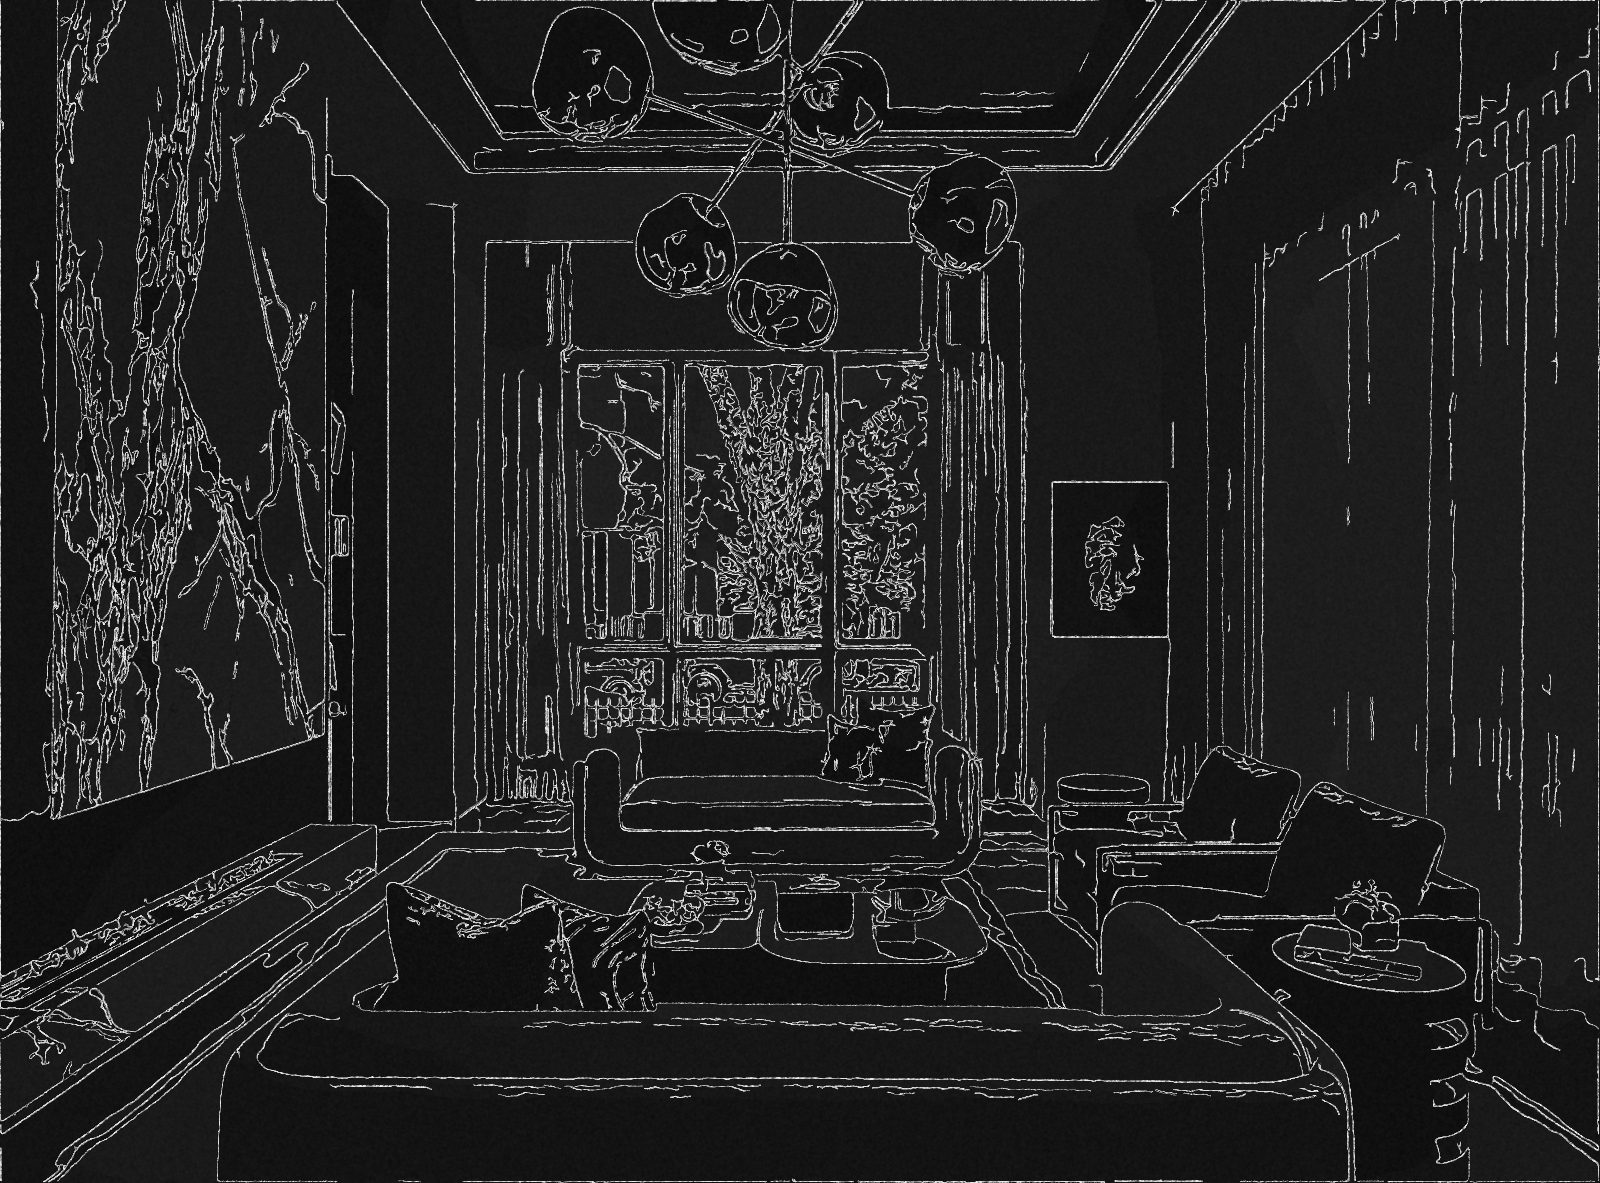
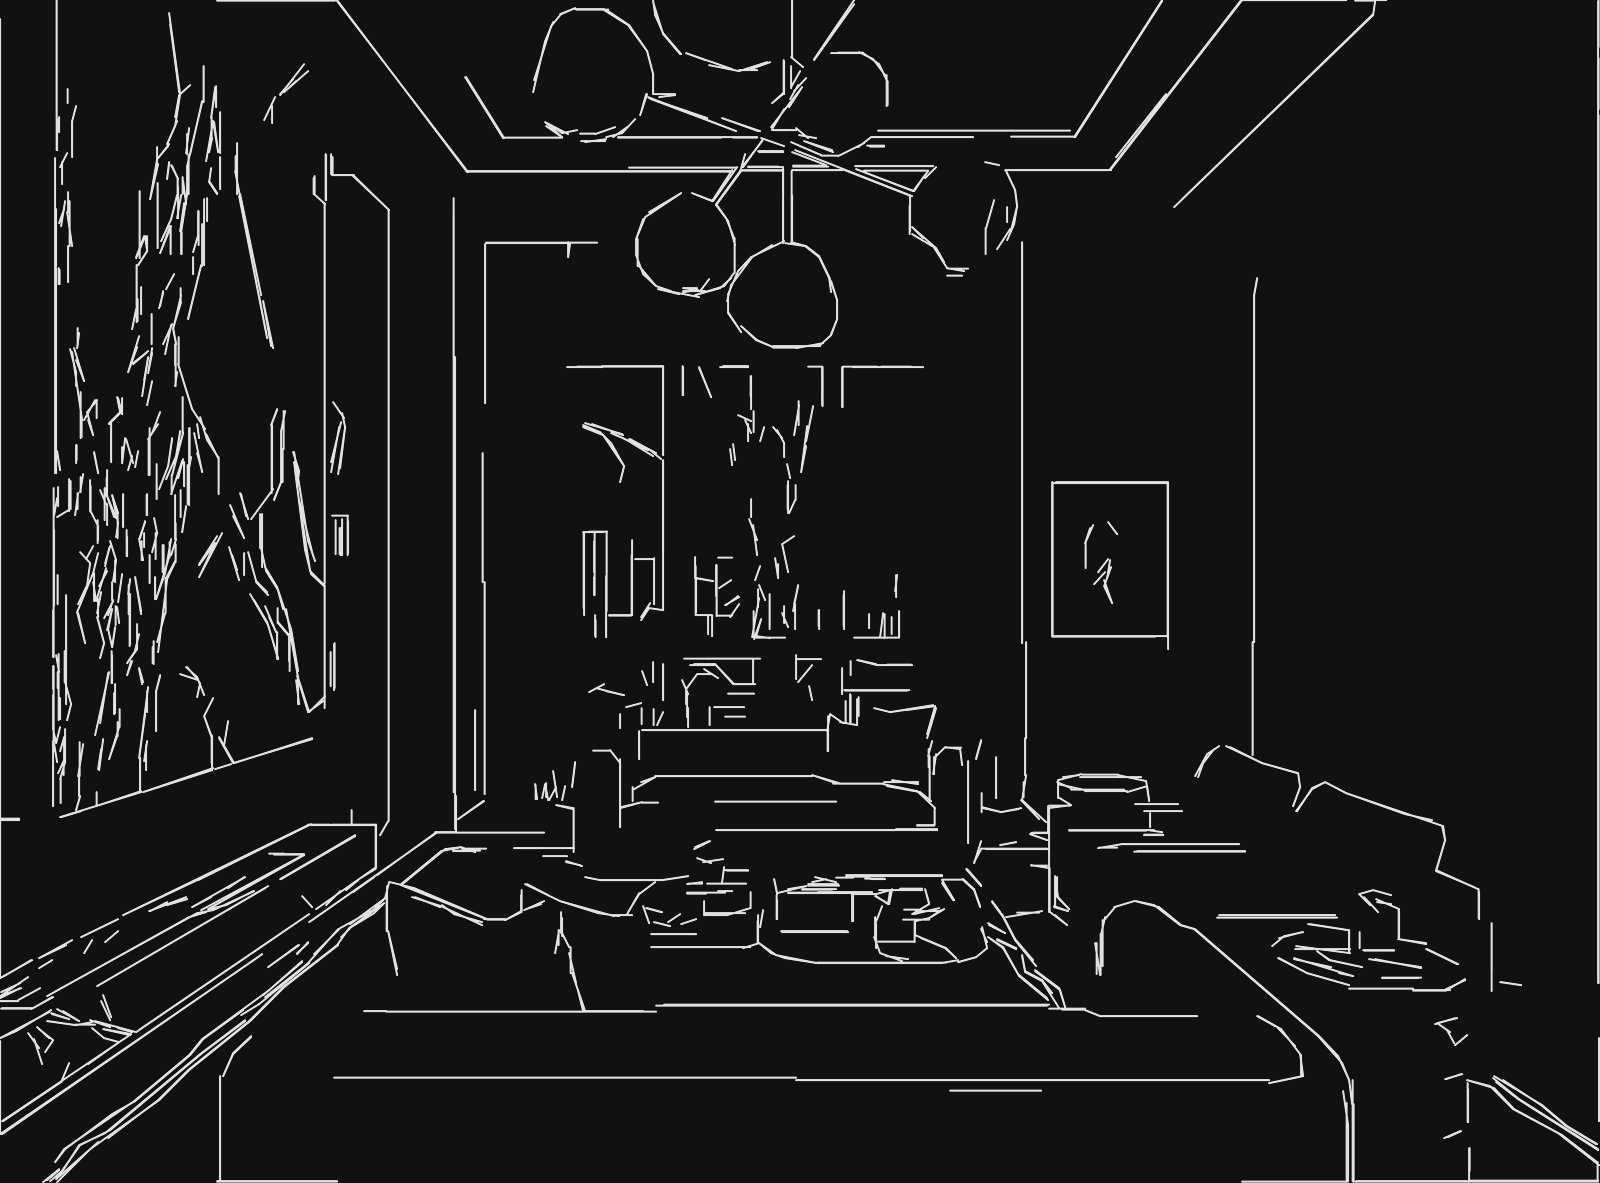
Story sketch v4 (user 03.11 08:40): straight, neat, uniform lines like the gold window outline, few details, no pencil — the facade is the outer rectangle of every window (panes merged, from the measured window map) + the facade's own edges; the city is a clean stepped skyline with tower edges fadin
Claude-Session: https://claude.ai/code/session_0117HZEeKusXN3UNmPD9FEqi

diff --git a/design/js/pre3d.js b/design/js/pre3d.js
@@ -71,10 +71,10 @@ const SKGL = `
   float skH(vec2 p){ return fract(sin(dot(p, vec2(127.1, 311.7))) * 43758.5453); }
   float skN(vec2 p){ vec2 i = floor(p), f = fract(p); f = f * f * (3. - 2. * f);
     return mix(mix(skH(i), skH(i + vec2(1., 0.)), f.x), mix(skH(i + vec2(0., 1.)), skH(i + 1.), f.x), f.y); }
-  float skR(vec2 uv, float k){ float n = (1. - uv.y) * .82 + .18 * skN(uv * vec2(9., 14.)); return smoothstep(n - .05, n + .05, k * 1.12 - .06); }   /* a clean sweep from the top, pencil-ragged front */
+  float skR(vec2 uv, float k){ float n = 1. - uv.y; return smoothstep(n - .04, n + .04, k * 1.1 - .05); }   /* a clean, straight sweep from the top */
   vec3 skMix(vec3 col, vec3 sk, vec2 uv, float k){ if (k <= 0.) return col; float r = skR(uv, k);
     float edge = r * (1. - r) * 4.;                                   /* a thin bright front where the drawing arrives */
-    return mix(col, sk, r) + vec3(.9, .87, .82) * edge * .1 * (1. - k); }`;
+    return mix(col, sk, r) + vec3(.9, .87, .82) * edge * .05 * (1. - k); }`;
 
 function skyMat(tex){
   return new THREE.ShaderMaterial({
@@ -93,7 +93,7 @@ function skyMat(tex){
         float sp = pow(max(0., sin(uTime * (.7 + 1.5 * h(cell + 7.)) + h(cell) * 40.)), 26.) * step(.62, h(cell + 1.7));   /* glints */
         c.rgb *= mix(1., tw, m) * uLift;
         c.rgb += c.rgb * m * (.62 + 2.2 * sp);                     /* lights feed the bloom, some sparkle */
-        if (uSk > 0.) c.rgb = skMix(c.rgb, texture2D(skMap, vUv).rgb + vec3(.82, .8, .76) * pow(l, 2.2) * .22, vUv, uSk);   /* + the city lights as faint pencil dots */
+        if (uSk > 0.) c.rgb = skMix(c.rgb, texture2D(skMap, vUv).rgb, vUv, uSk);
         gl_FragColor = c;
         #include <colorspace_fragment>
       }`,

diff --git a/design/src/v15/pre3d.js b/design/src/v15/pre3d.js
@@ -71,10 +71,10 @@ const SKGL = `
   float skH(vec2 p){ return fract(sin(dot(p, vec2(127.1, 311.7))) * 43758.5453); }
   float skN(vec2 p){ vec2 i = floor(p), f = fract(p); f = f * f * (3. - 2. * f);
     return mix(mix(skH(i), skH(i + vec2(1., 0.)), f.x), mix(skH(i + vec2(0., 1.)), skH(i + 1.), f.x), f.y); }
-  float skR(vec2 uv, float k){ float n = (1. - uv.y) * .82 + .18 * skN(uv * vec2(9., 14.)); return smoothstep(n - .05, n + .05, k * 1.12 - .06); }   /* a clean sweep from the top, pencil-ragged front */
+  float skR(vec2 uv, float k){ float n = 1. - uv.y; return smoothstep(n - .04, n + .04, k * 1.1 - .05); }   /* a clean, straight sweep from the top */
   vec3 skMix(vec3 col, vec3 sk, vec2 uv, float k){ if (k <= 0.) return col; float r = skR(uv, k);
     float edge = r * (1. - r) * 4.;                                   /* a thin bright front where the drawing arrives */
-    return mix(col, sk, r) + vec3(.9, .87, .82) * edge * .1 * (1. - k); }`;
+    return mix(col, sk, r) + vec3(.9, .87, .82) * edge * .05 * (1. - k); }`;
 
 function skyMat(tex){
   return new THREE.ShaderMaterial({
@@ -93,7 +93,7 @@ function skyMat(tex){
         float sp = pow(max(0., sin(uTime * (.7 + 1.5 * h(cell + 7.)) + h(cell) * 40.)), 26.) * step(.62, h(cell + 1.7));   /* glints */
         c.rgb *= mix(1., tw, m) * uLift;
         c.rgb += c.rgb * m * (.62 + 2.2 * sp);                     /* lights feed the bloom, some sparkle */
-        if (uSk > 0.) c.rgb = skMix(c.rgb, texture2D(skMap, vUv).rgb + vec3(.82, .8, .76) * pow(l, 2.2) * .22, vUv, uSk);   /* + the city lights as faint pencil dots */
+        if (uSk > 0.) c.rgb = skMix(c.rgb, texture2D(skMap, vUv).rgb, vUv, uSk);
         gl_FragColor = c;
         #include <colorspace_fragment>
       }`,

diff --git a/design/src/v15/clean_sketch.py b/design/src/v15/clean_sketch.py
@@ -1,0 +1,115 @@
+"""Clean line drawing (user 03.11 08:40): straight, neat, uniform lines like the gold window outline; few details; no pencil.
+modes:
+  facade  — the outer rectangle of every window (panes merged) from the measured window map + the facade's own edges (alpha)
+  lines   — straight segments only (Fast Line Detector on an L0-flattened image), snapped when near-vertical/horizontal,
+            short ones dropped; for the city, the window unit and the interiors
+usage: clean.py MODE SRC OUT WIDTH [min_len] [lambda] [lw]"""
+import cv2, numpy as np, sys
+from scipy import ndimage
+mode, src, out, W = sys.argv[1], sys.argv[2], sys.argv[3], int(sys.argv[4])
+minlen = float(sys.argv[5]) if len(sys.argv) > 5 else 60
+lam = float(sys.argv[6]) if len(sys.argv) > 6 else .03
+lw = float(sys.argv[7]) if len(sys.argv) > 7 else 1.8
+im = cv2.imread(src, cv2.IMREAD_UNCHANGED); alpha = im[:, :, 3] if im.ndim == 3 and im.shape[2] == 4 else None
+h, w = im.shape[:2]; H = int(round(h * W / w))
+SS = 4; cv = np.zeros((H * SS, W * SS), np.uint8)
+def seg(p0, p1, val=255, t=lw):
+    a = (int(round(p0[0] * SS * 16)), int(round(p0[1] * SS * 16))); b = (int(round(p1[0] * SS * 16)), int(round(p1[1] * SS * 16)))
+    cv2.line(cv, a, b, val, thickness=max(1, int(round(t * SS))), lineType=cv2.LINE_AA, shift=4)
+if mode == 'facade':
+    G = '/home/claude/ci-design-build-prototype/design/assets/v15/gl/'
+    r = cv2.imread(G + 'facade_win.png')[:, :, 2] > 0
+    k = W / r.shape[1]
+    grp = ndimage.binary_closing(r, structure=np.ones((5, 23)))            # panes of one window → one opening
+    lab, n = ndimage.label(grp)
+    for sl in ndimage.find_objects(lab):
+        y0, y1, x0, x1 = sl[0].start, sl[0].stop, sl[1].start, sl[1].stop
+        if (x1 - x0) < 8 or (y1 - y0) < 16: continue
+        X0, Y0, X1, Y1 = [v * k for v in (x0 - .5, y0 - .5, x1 - .5, y1 - .5)]
+        for a, b in [((X0, Y0), (X1, Y0)), ((X1, Y0), (X1, Y1)), ((X1, Y1), (X0, Y1)), ((X0, Y1), (X0, Y0))]: seg(a, b)
+    if alpha is not None:                                                    # the facade's own edges (the bay cut, the corner)
+        a = cv2.resize(alpha, (W, H), interpolation=cv2.INTER_AREA) > 127
+        cs, _ = cv2.findContours(a.astype(np.uint8), cv2.RETR_LIST, cv2.CHAIN_APPROX_SIMPLE)
+        for c in cs:
+            if cv2.arcLength(c, True) < 200: continue
+            p = cv2.approxPolyDP(c, 2.5, True)[:, 0, :].astype(np.float32)
+            for i in range(len(p)):
+                q0, q1 = p[i], p[(i + 1) % len(p)]
+                if q0[0] <= 1 and q1[0] <= 1 or q0[1] <= 1 and q1[1] <= 1 or q0[1] >= H - 2 and q1[1] >= H - 2: continue   # not the texture border
+                seg(q0, q1)
+elif mode == 'skyline':                                                      # the city as clean tower outlines
+    img = cv2.resize(im[:, :, :3], (W, H), interpolation=cv2.INTER_AREA).astype(np.float32) / 255.
+    lum = cv2.GaussianBlur(img @ np.array([.114, .587, .299], np.float32), (0, 0), 1.2)
+    lights = lum > .30
+    lights = ndimage.binary_opening(lights, iterations=1)
+    dens = cv2.boxFilter(lights.astype(np.float32), -1, (9, 41))          # lit facades are dense with lights
+    city = dens > .06
+    top = np.full(W, H, np.float32)
+    for x in range(W):
+        ys = np.where(city[:, x])[0]
+        if len(ys): top[x] = ys[0]
+    top = ndimage.median_filter(top, size=15)
+    # rectilinear: piecewise-constant runs
+    runs = []; x0 = 0
+    for x in range(1, W + 1):
+        if x == W or abs(top[x] - np.median(top[x0:x])) > 10:
+            runs.append((x0, x, float(np.median(top[x0:x])))); x0 = x
+    changed = True                                                          # fewer details: narrow runs merge into a neighbour
+    while changed and len(runs) > 2:
+        changed = False
+        i = min(range(len(runs)), key=lambda j: runs[j][1] - runs[j][0])
+        if runs[i][1] - runs[i][0] >= 26: break
+        if i == 0: j = 1
+        elif i == len(runs) - 1: j = i - 1
+        else: j = i - 1 if abs(runs[i - 1][2] - runs[i][2]) <= abs(runs[i + 1][2] - runs[i][2]) else i + 1
+        a0 = min(runs[i][0], runs[j][0]); a1 = max(runs[i][1], runs[j][1])
+        y = runs[j][2] if (runs[j][1] - runs[j][0]) >= (runs[i][1] - runs[i][0]) else runs[i][2]
+        lo_, hi_ = min(i, j), max(i, j); runs[lo_:hi_ + 1] = [(a0, a1, y)]; changed = True
+    base = H - 1
+    for i, (a0, a1, y) in enumerate(runs):
+        if y >= H - 4: continue
+        seg((a0, y), (a1, y))
+        if i + 1 < len(runs):
+            y2 = runs[i + 1][2]
+            if abs(y2 - y) > 22:                                             # a tower edge: down from the higher roof
+                yt, yb = min(y, y2), max(y, y2)
+                ye = min(base, yb + (H - yb) * .45); n_ = 10                   # the edge fades out downwards
+                for q in range(n_):
+                    ya = yt + (ye - yt) * q / n_; yb2 = yt + (ye - yt) * (q + 1) / n_
+                    seg((a1, ya), (a1, yb2), int(170 * (1 - max(0, (ya - yb) / max(1, ye - yb)))) if ya > yb else 170)
+    L = runs
+elif mode == 'poly':                                                         # region outlines, straightened (city, interiors)
+    img = cv2.resize(im[:, :, :3], (W, H), interpolation=cv2.INTER_AREA)
+    L0 = cv2.ximgproc.l0Smooth(img, None, lam, 2.0)
+    g = cv2.cvtColor(L0, cv2.COLOR_BGR2GRAY)
+    e = cv2.Canny(g, 14, 40, L2gradient=True)
+    cs, _ = cv2.findContours(e, cv2.RETR_LIST, cv2.CHAIN_APPROX_NONE)
+    nseg = 0
+    for c in cs:
+        if cv2.arcLength(c, False) < minlen: continue
+        p = cv2.approxPolyDP(c, 2.2, False)[:, 0, :].astype(np.float32)
+        for i in range(len(p) - 1):
+            x0, y0 = p[i]; x1, y1 = p[i + 1]; dx, dy = x1 - x0, y1 - y0
+            if np.hypot(dx, dy) < 14: continue
+            if abs(dx) < abs(dy) * .12: x0 = x1 = (x0 + x1) / 2
+            elif abs(dy) < abs(dx) * .12: y0 = y1 = (y0 + y1) / 2
+            seg((x0, y0), (x1, y1)); nseg += 1
+    L = [0] * nseg
+else:
+    img = cv2.resize(im[:, :, :3], (W, H), interpolation=cv2.INTER_AREA)
+    L0 = cv2.ximgproc.l0Smooth(img, None, lam, 2.0)
+    g = cv2.cvtColor(L0, cv2.COLOR_BGR2GRAY)
+    fld = cv2.ximgproc.createFastLineDetector(length_threshold=int(minlen), distance_threshold=1.5, canny_th1=10, canny_th2=30, canny_aperture_size=3, do_merge=True)
+    L = fld.detect(g)
+    L = [] if L is None else L.reshape(-1, 4)
+    for x0, y0, x1, y1 in L:
+        dx, dy = x1 - x0, y1 - y0
+        if abs(dx) < abs(dy) * .08: x0 = x1 = (x0 + x1) / 2
+        elif abs(dy) < abs(dx) * .08: y0 = y1 = (y0 + y1) / 2
+        seg((x0, y0), (x1, y1))
+ln = cv2.resize(cv, (W, H), interpolation=cv2.INTER_AREA).astype(np.float32) / 255.
+res = 17 + (226 - 17) * np.clip(ln * 1.15, 0, 1)
+res = cv2.cvtColor(np.clip(res, 0, 255).astype(np.uint8), cv2.COLOR_GRAY2BGR)
+if alpha is not None: res = np.dstack([res, cv2.resize(alpha, (W, H), interpolation=cv2.INTER_AREA)])
+cv2.imwrite(out, res, [cv2.IMWRITE_JPEG_QUALITY, 85] if out.endswith('.jpg') else [cv2.IMWRITE_WEBP_QUALITY, 92])
+print('ok', out, res.shape, (len(L) if mode != 'facade' else n))
